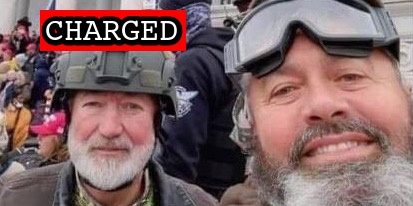
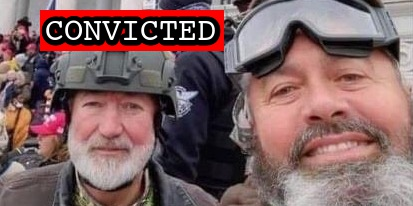
Latest import

Changed region(s): [[0.1453, 0.0291, 0.5521, 0.2621]]

diff --git a/docs/_suspects/reva-vincent.md b/docs/_suspects/reva-vincent.md
@@ -4,15 +4,17 @@ lastName: Vincent
 hashtag:
 aka:
 residence: Kentucky
-status: Charged
+status: Convicted
 date: 2022-02-14
 charged: 2022-02-14
 indicted:
-convicted:
+convicted: 2022-04-22
+acquitted:
 sentenced:
 dismissed:
 deceased:
-plea_hearing:
+plea_hearing: 2022-04-22
+trial_date:
 sentencing:
 age:
 occupation:
@@ -34,7 +36,12 @@ published: true
 caseNumber:
 videos:
 charges:
+- code: 40 USC § 5104(e)(2)(G)
+  title: Parading, demonstrating or picketing in a Capitol building
+  url: https://www.law.cornell.edu/uscode/text/40/5104
+  felony: false
 sentence:
 ---
-
 - [Information](https://extremism.gwu.edu/sites/g/files/zaxdzs2191/f/Reva%20Vincent%20Information.pdf)
+- [Plea Agreement](https://extremism.gwu.edu/sites/g/files/zaxdzs2191/f/Reva%20Vincent%20Plea%20Agreement.pdf)
+- [Statement of Offense](https://extremism.gwu.edu/sites/g/files/zaxdzs2191/f/Reva%20Vincent%20Statement%20of%20Offense.pdf)

diff --git a/docs/_suspects/kerry-persick.md b/docs/_suspects/kerry-persick.md
@@ -45,3 +45,5 @@ sentence:
 - [News Report](https://www.dallasnews.com/news/crime/2021/05/18/tarrant-county-man-recorded-video-from-inside-us-capitol-during-mob-siege-feds-say/)
 - [Statement of Facts](https://extremism.gwu.edu/sites/g/files/zaxdzs2191/f/Kerry%20Wayne%20Persick%20Statement%20of%20Facts.pdf)
 - [Information](https://extremism.gwu.edu/sites/g/files/zaxdzs2191/f/Kerry%20Wayne%20Persick%20Information.pdf)
+- [Plea Agreement](https://extremism.gwu.edu/sites/g/files/zaxdzs2191/f/Kerry%20Wayne%20Persick%20Plea%20Agreement.pdf)
+- [Statement of Offense](https://extremism.gwu.edu/sites/g/files/zaxdzs2191/f/Kerry%20Wayne%20Persick%20Statement%20of%20Offense.pdf)
